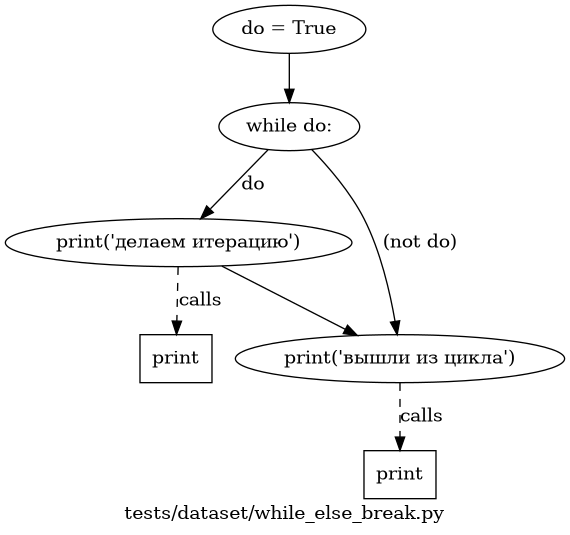
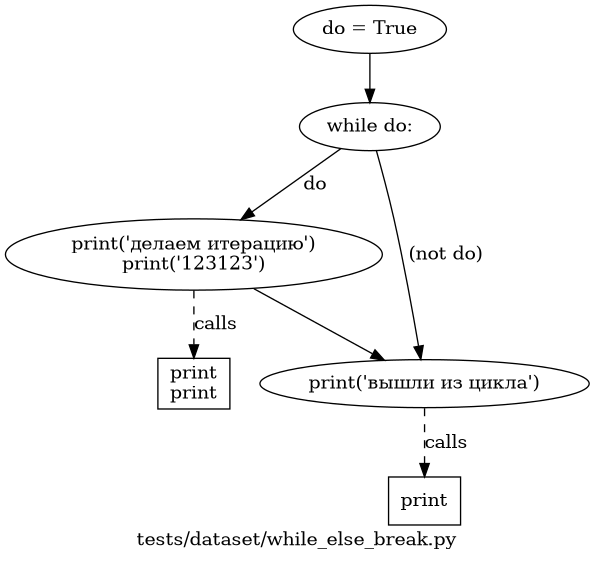
Add pyproject and tests

diff --git a/tests/test_cfg.py b/tests/test_cfg.py
@@ -1,0 +1,21 @@
+import ast
+from pathlib import Path
+
+import pytest
+
+from cfg import CFG
+
+DATASET_DIR = Path(__file__).parent / "dataset"
+DATASET_FILES = sorted(DATASET_DIR.glob("*.py"))
+
+
+@pytest.mark.parametrize("source_file", DATASET_FILES)
+def test_cfg(source_file: Path) -> None:
+    expected_file = source_file.with_suffix(".cfg")
+    assert expected_file.exists(), f"Missing compare file {expected_file.name}"
+    expected = expected_file.read_text()
+
+    python_file_ast = ast.parse(source_file.read_text())
+    actual = str(CFG.from_ast(python_file_ast.body)) + "\n"
+
+    assert actual == expected
